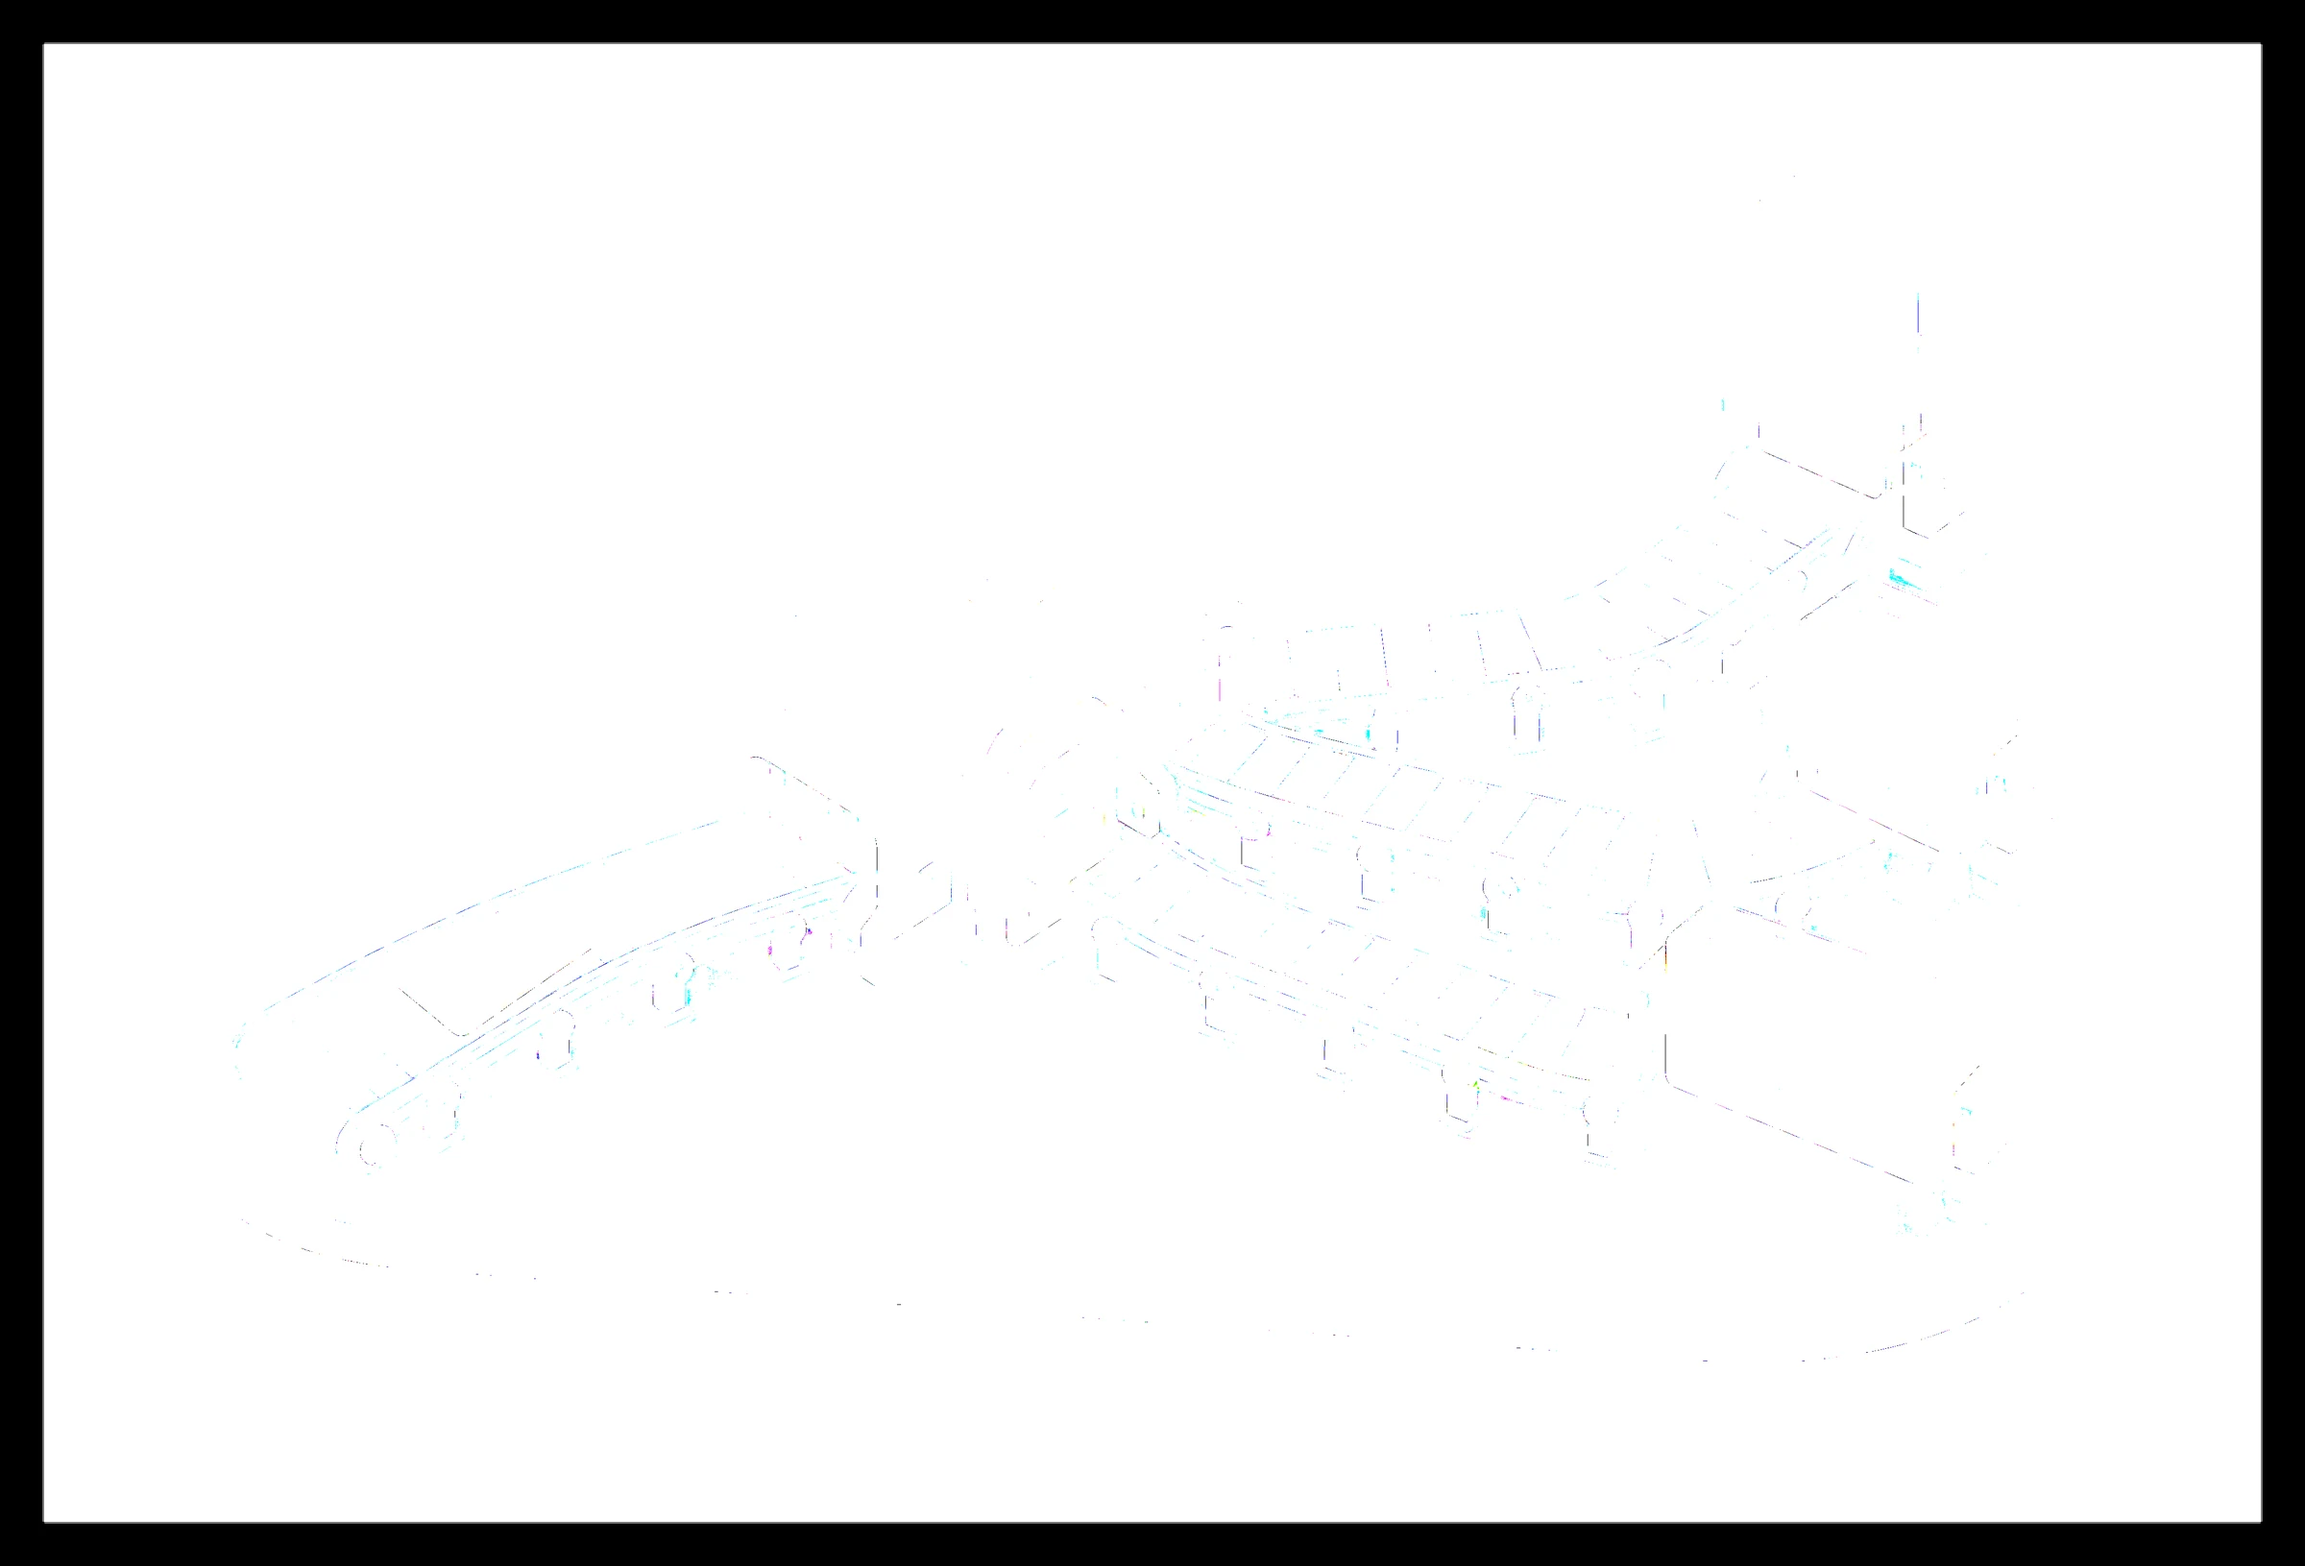
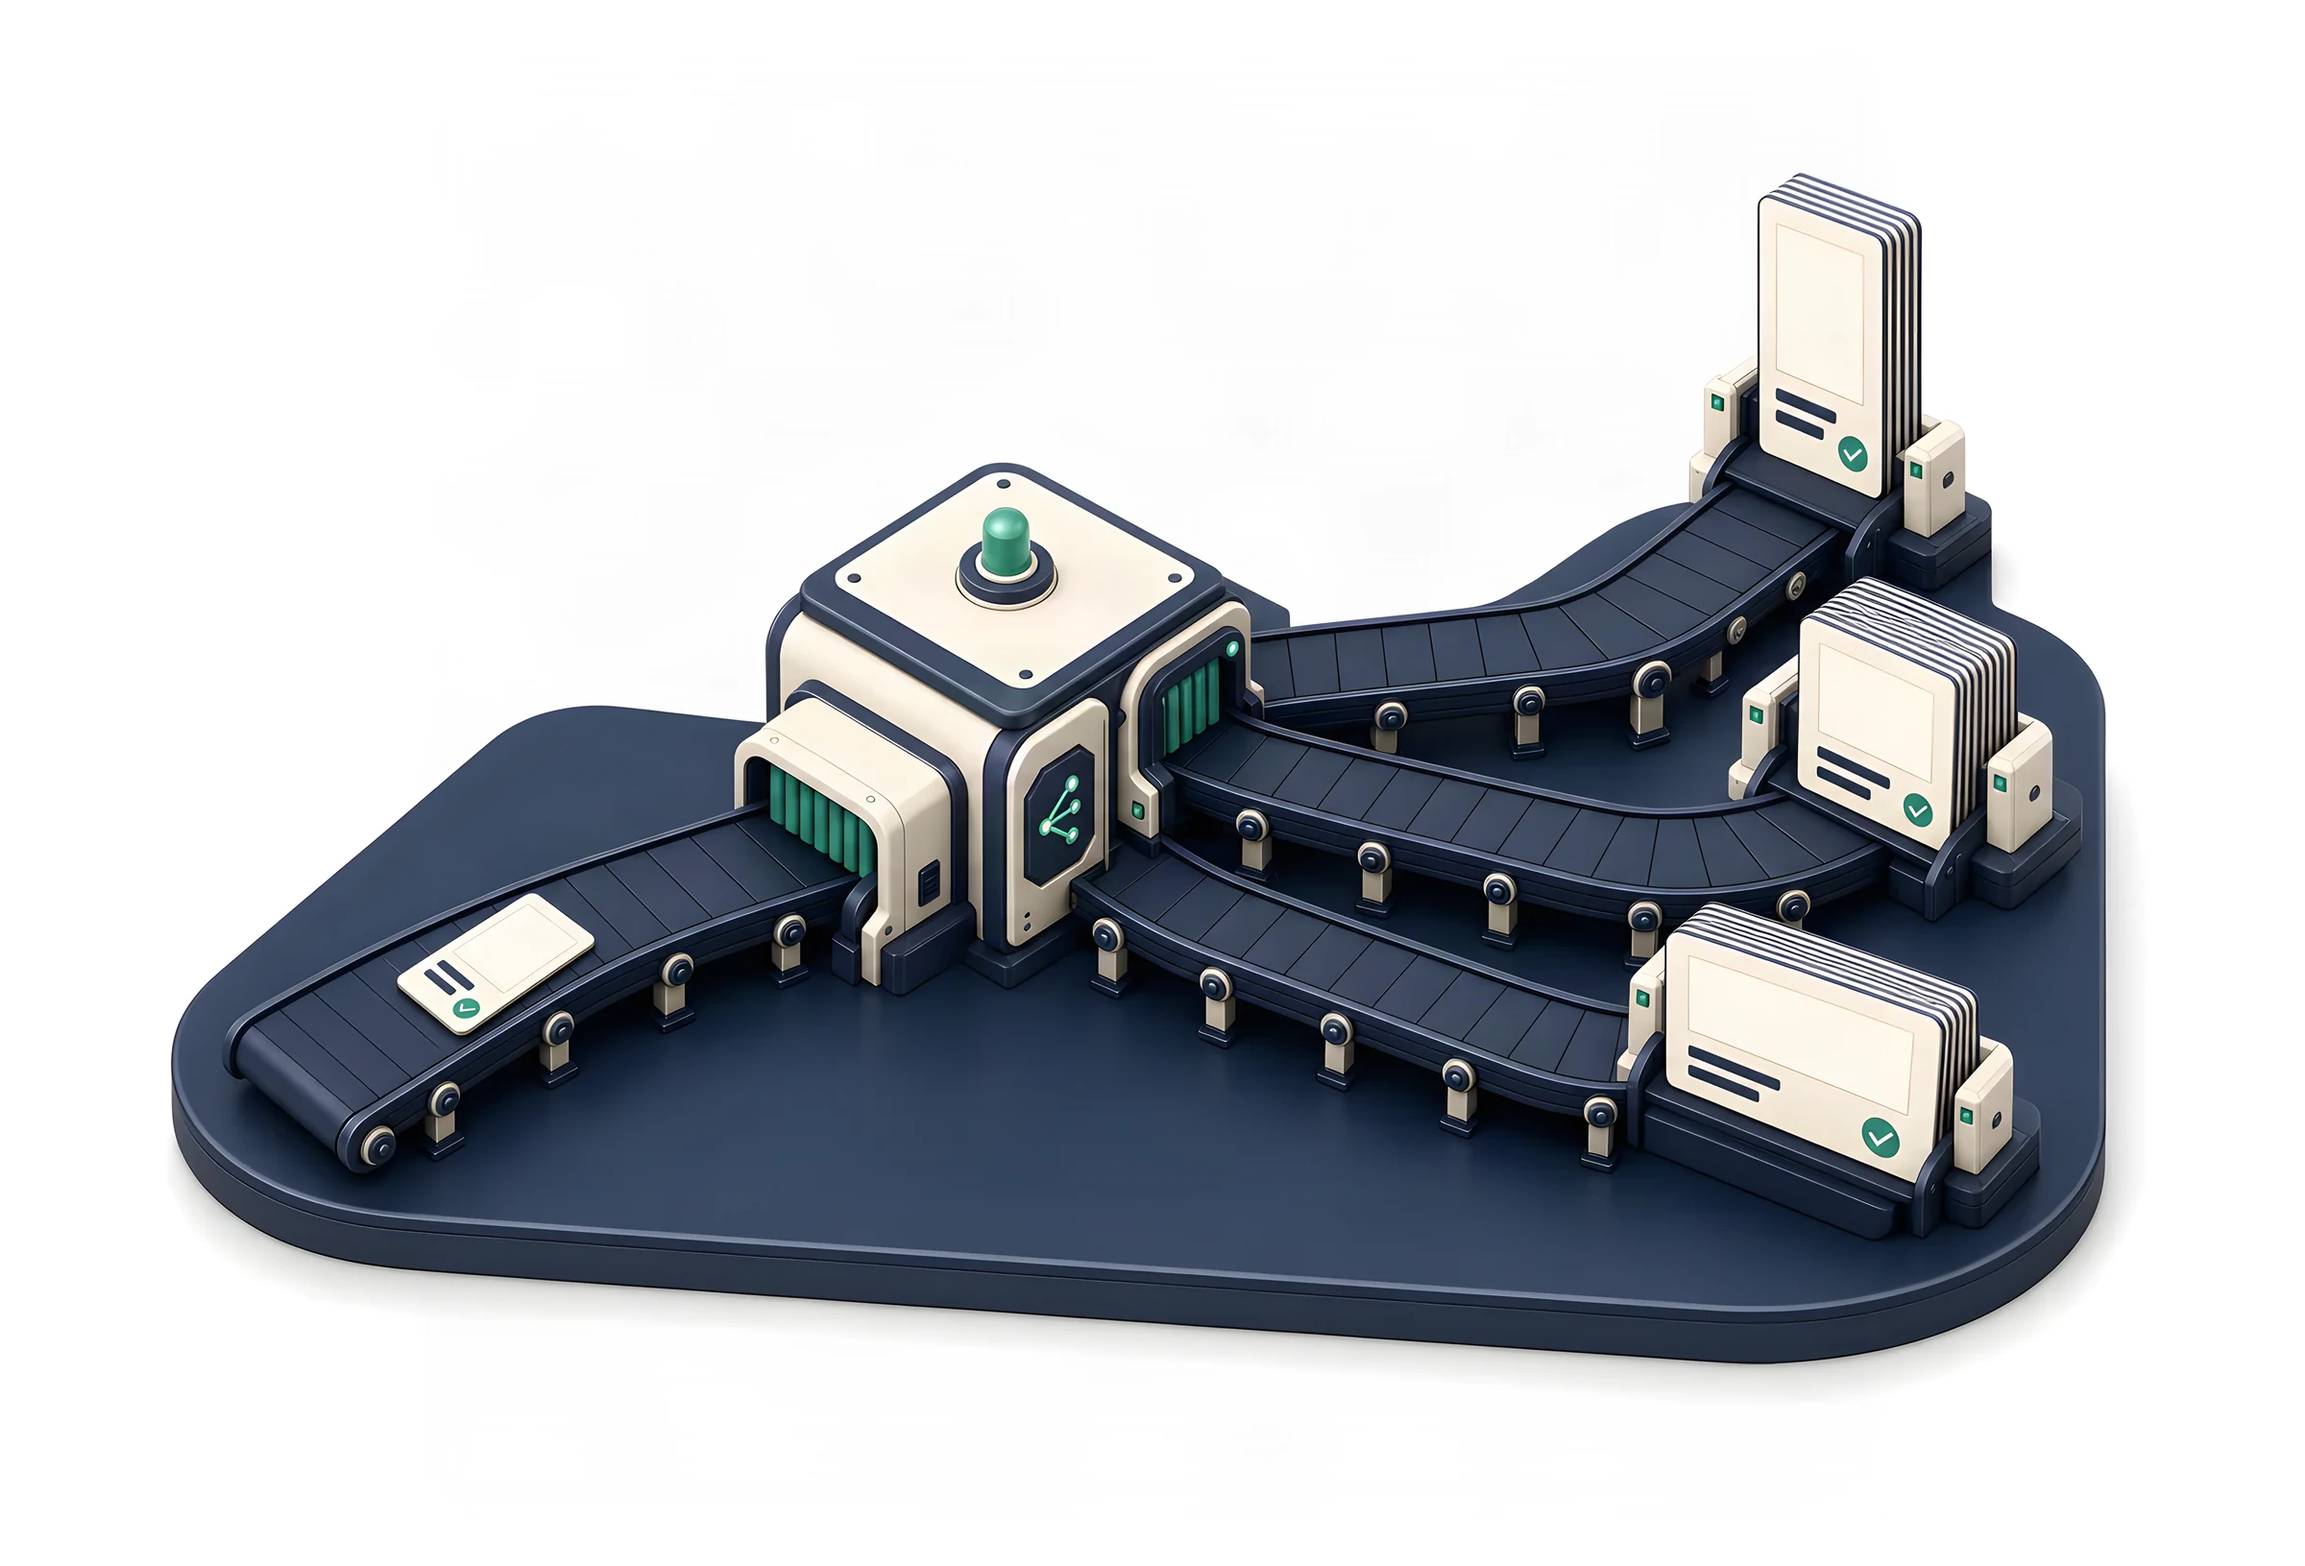
The finale's still was blank, and phones were the only ones who saw it
Two faults, one visible. The finale poster was blown to white: the finalize
template returns a transparent PNG (it is a cut-out pipeline), so flattening
it to RGB turned the sky black, the white-balance read black corners, and
divided by zero into a 255x gain. On desktop the video covered it; on phones
there is no video, so the finale was a ghost. The poster is now composited
over white before anything else touches it.

Phones also keep the still on purpose: SceneMedia takes a viewport floor
and the finale sets it at 768px, so a phone never downloads the clip. And
the scene is scaled past the viewport there with its sky pulled up, because
at 390px the whole diorama collapsed to a 270px strip that was half white
sky and mostly under the footer.

Claude-Session: https://claude.ai/code/session_01RHbMgFrd4oMPPzvhxNmHzD

diff --git a/src/components/HomeV3/SceneMedia.tsx b/src/components/HomeV3/SceneMedia.tsx
@@ -8,6 +8,8 @@
  *    way RunConsole already decides it.
  * 2. A clip that is off-screen should not be decoding frames: it plays only
  *    while in view, via the site's observer idiom.
+ * 3. A scene can name a viewport floor below which it stays a still — phones
+ *    keep the picture and skip the download entirely.
  */
 
 import { useEffect, useRef, useState } from 'react';
@@ -20,6 +22,7 @@ export default function SceneMedia({
   height = 768,
   priority = false,
   motion = true,
+  minWidth = 0,
 }: {
   name: string;
   alt: string;
@@ -30,6 +33,8 @@ export default function SceneMedia({
   /* Set false while a scene has no clip yet: a <video> whose sources 404
      falls back to its raw attribute size and drags the layout with it. */
   motion?: boolean;
+  /* Viewport width (px) below which the still is served instead of the clip. */
+  minWidth?: number;
 }) {
   const [motionOk, setMotionOk] = useState(false);
   const videoRef = useRef<HTMLVideoElement | null>(null);
@@ -37,8 +42,11 @@ export default function SceneMedia({
   useEffect(() => {
     if (!motion) return;
     if (window.matchMedia('(prefers-reduced-motion: reduce)').matches) return;
+    // Decided once at mount, like the scrubber's frame tier: a rotation
+    // mid-visit is not worth swapping media for.
+    if (minWidth && window.innerWidth < minWidth) return;
     setMotionOk(true);
-  }, [motion]);
+  }, [motion, minWidth]);
 
   useEffect(() => {
     const el = videoRef.current;

diff --git a/src/components/HomeV3/HomeV3.css b/src/components/HomeV3/HomeV3.css
@@ -355,6 +355,11 @@
   .hv3-master { margin-top: 0; }
   .hv3-master img { width: 140vw; max-width: none; margin-left: -20vw; }
   .hv3-scrub { height: 240vh; }
+  /* On phones the whole scene would shrink to a strip, with its white sky
+     taking half of that. Scale it past the viewport (the wrapper clips the
+     overflow) and pull the sky up, so the campus reads at thumb size. */
+  .hv3-world { margin-top: 0; }
+  .hv3-world img, .hv3-world video { width: 210vw; margin-top: -20vw; }
 }
 
 /* ══ Reduced motion ══

diff --git a/src/components/HomeV3/HomeV3Page.tsx b/src/components/HomeV3/HomeV3Page.tsx
@@ -305,6 +305,7 @@ export default function HomeV3Page() {
             alt="One brief travels in on a single belt; finished creatives travel out on three — one belt for each outlet, each ending at its own truck"
             width={2400}
             height={1600}
+            minWidth={768}
           />
         </figure>
       </section>
